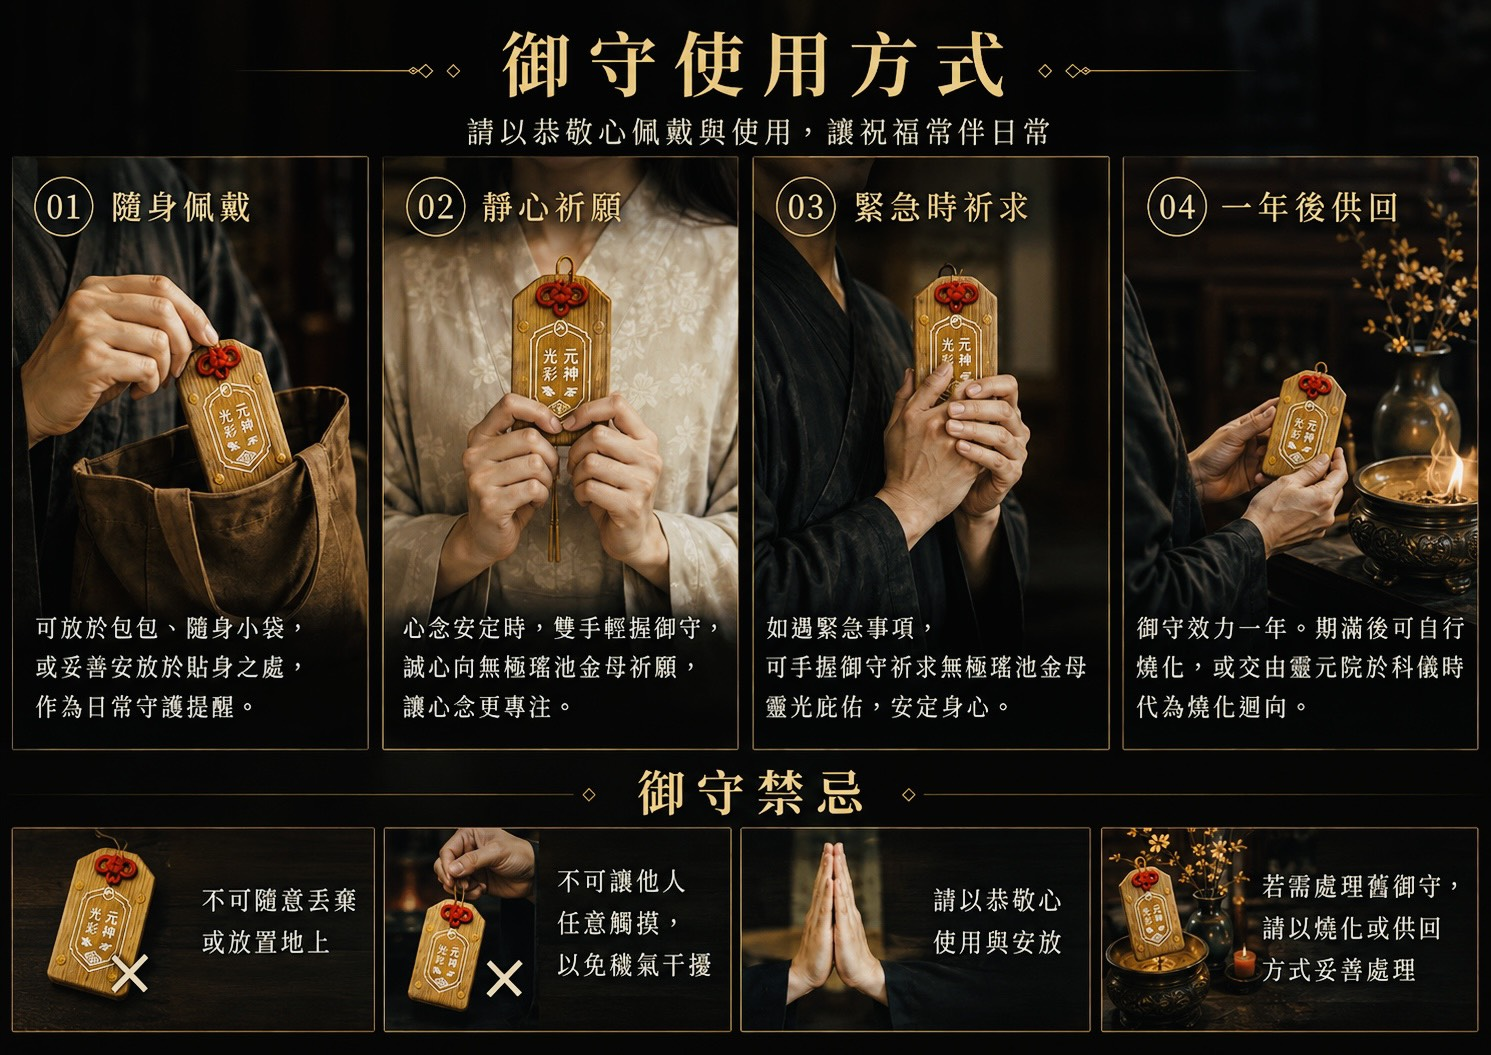
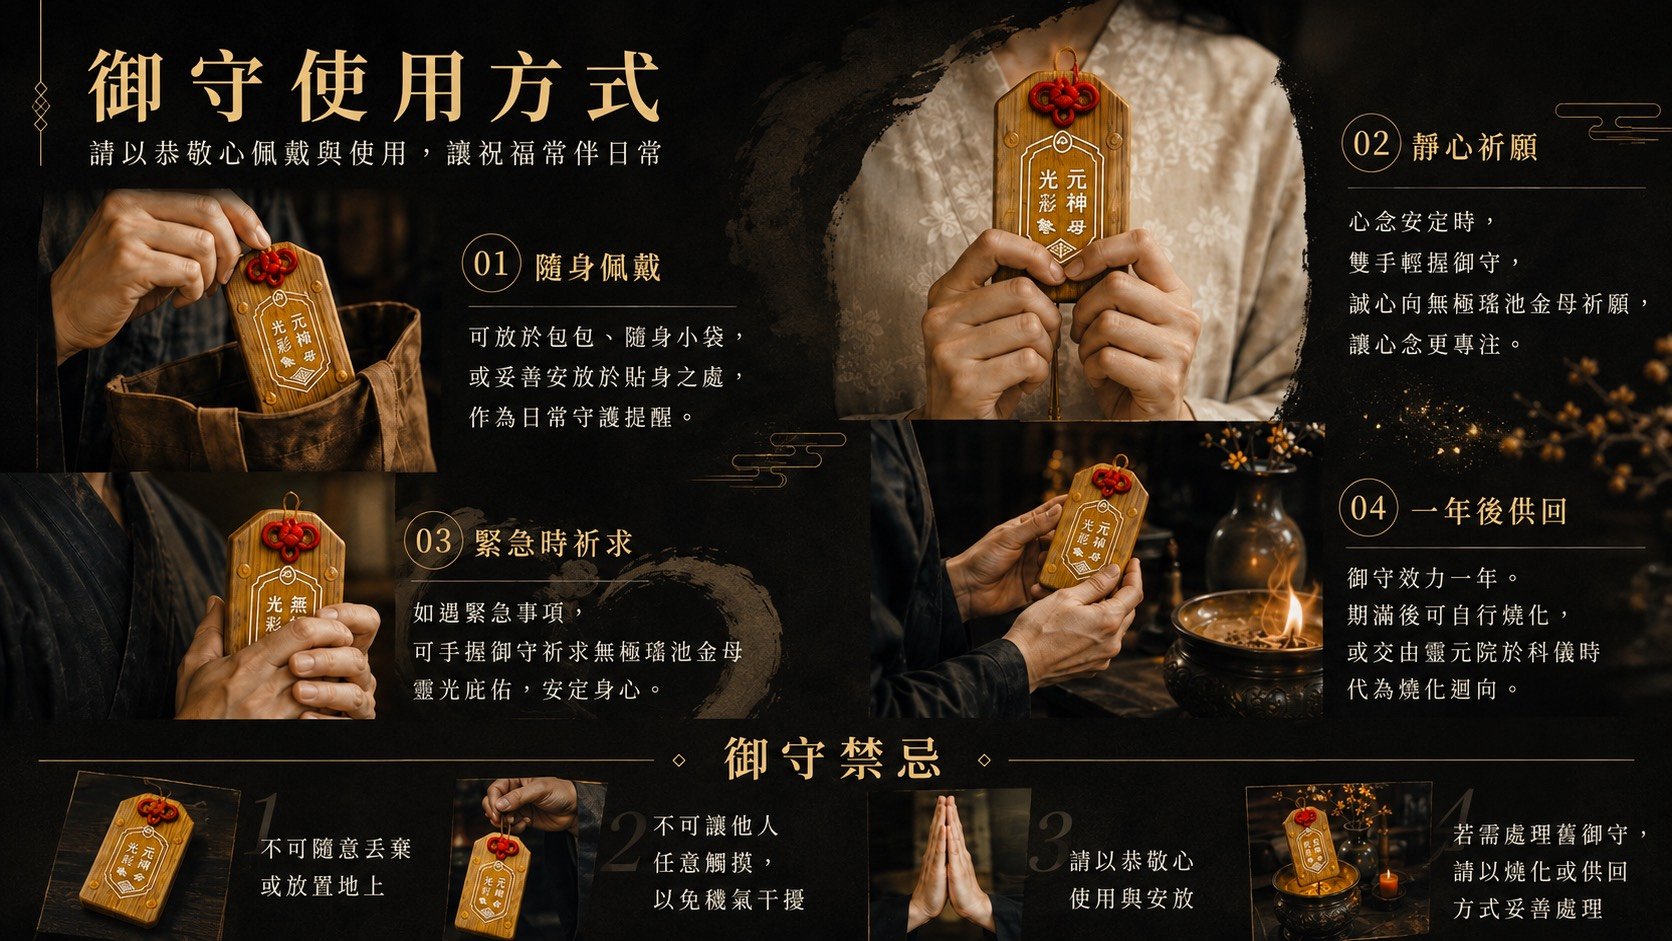
更新御守使用方式圖片

diff --git a/spiritual-aesthetics-preview.html b/spiritual-aesthetics-preview.html
@@ -338,7 +338,7 @@ footer p{font-size:12px;letter-spacing:.12em}
 
 <section class="experience omamori-usage-guide" aria-label="御守使用方式與禁忌" style="padding:clamp(28px,5vw,72px) 0;background:#050705;">
   <div class="wrap" style="width:min(100% - 24px,1480px);">
-    <img src="assets/products/omamori-usage-guide-20260808.jpg?v=20260808-1" alt="御守使用方式：隨身佩戴、靜心祈願、緊急時祈求、一年後供回，以及御守禁忌說明" loading="lazy" decoding="async" style="display:block;width:100%;height:auto;margin:0 auto;border:1px solid rgba(200,166,111,.35);box-shadow:0 22px 60px rgba(0,0,0,.38);">
+    <img src="assets/products/omamori-usage-guide-20260808.jpg?v=20260809-1" alt="御守使用方式：隨身佩戴、靜心祈願、緊急時祈求、一年後供回，以及御守禁忌說明" loading="lazy" decoding="async" style="display:block;width:100%;height:auto;margin:0 auto;border:1px solid rgba(200,166,111,.35);box-shadow:0 22px 60px rgba(0,0,0,.38);">
   </div>
 </section>
 
